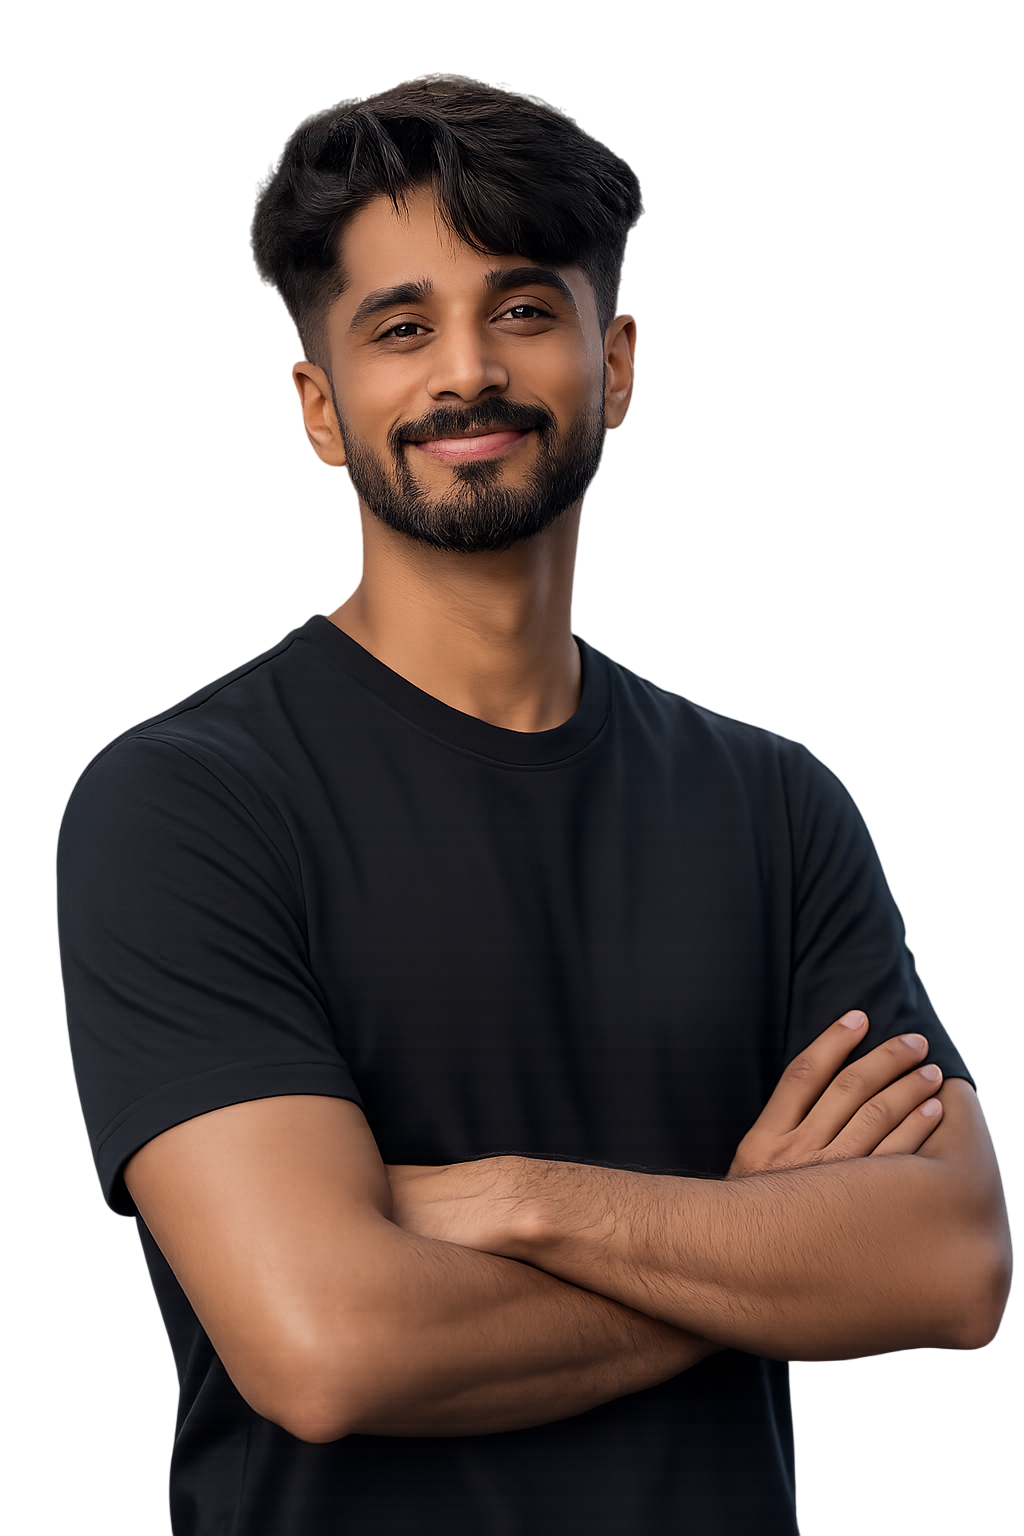
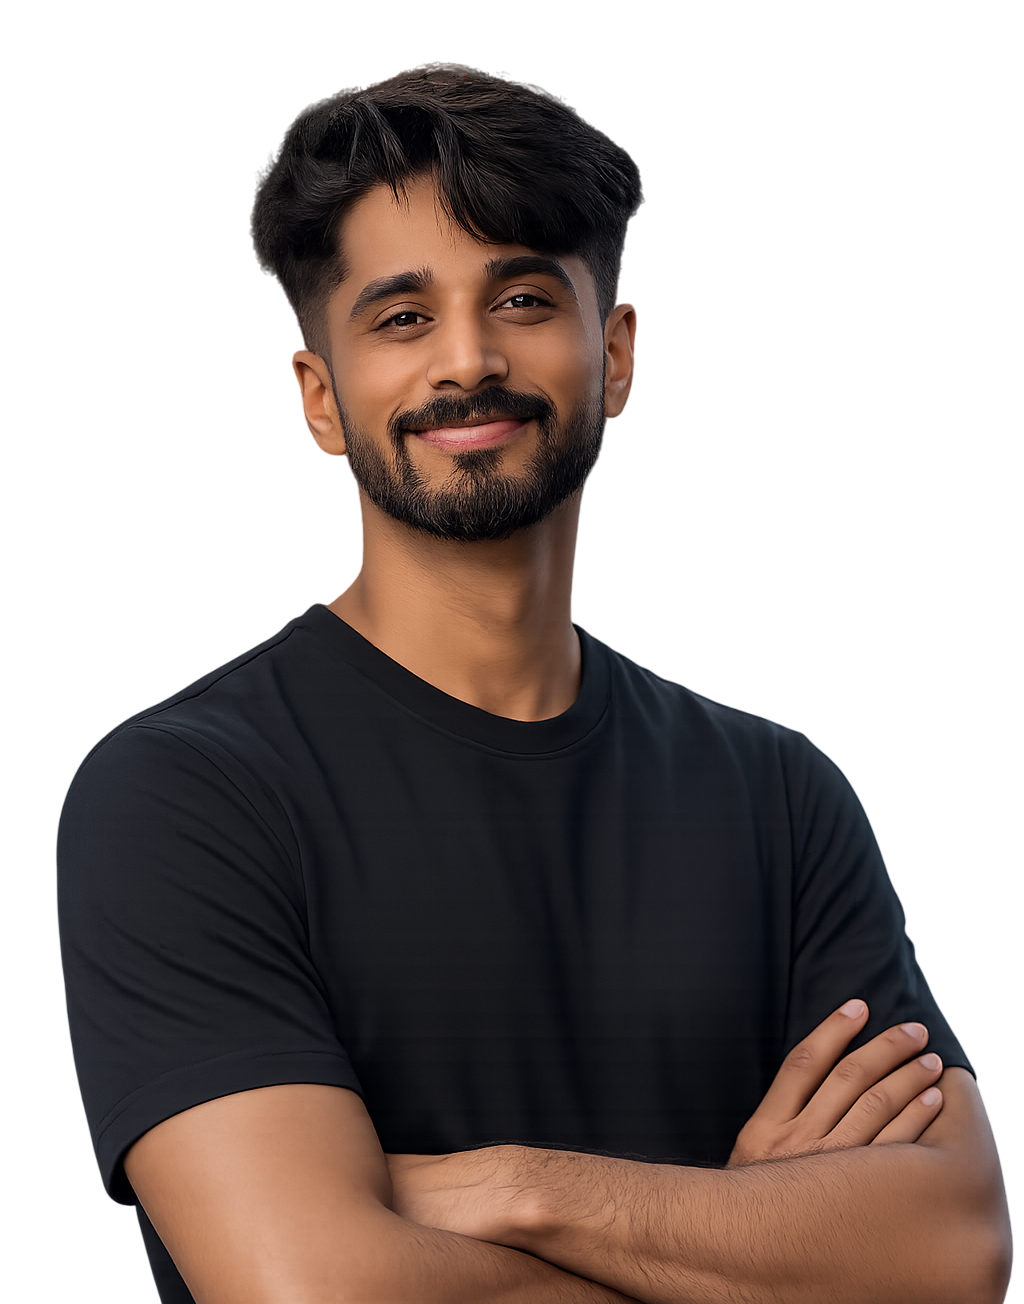
landing section

diff --git a/index.html b/index.html
@@ -61,7 +61,7 @@
 
             <section class="hero-landing" id="hero" aria-label="Introduction">
               <div class="hero-image">
-                <img src="img/manaf-portrait.png" alt="Manaf">
+                <img src="img/manaf-cover.png" alt="Manaf">
               </div>
               <div class="hero-copy">
                 <h1 class="hero-headline">

diff --git a/css/style.css b/css/style.css
@@ -543,7 +543,7 @@ table {
 
 .hero-headline {
 	font-family: 'Inter', sans-serif;
-	font-size: clamp(42px, 5.5vw, 72px);
+	font-size: clamp(42px, 3.5vw, 72px);
 	font-weight: 600;
 	line-height: 1.2;
 	letter-spacing: -0.02em;
